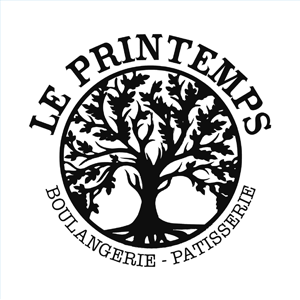
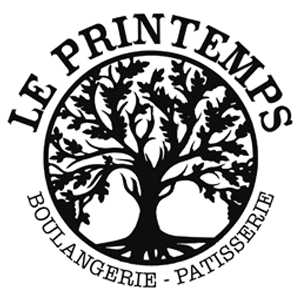
Index : partenaires - add le Printemps

diff --git a/index.html b/index.html
@@ -218,7 +218,7 @@
             <a href="https://m.facebook.com/profile.php?id=100085424663330&sk=photos#_=_" target="_blank">
               <img src="./img/ltcout.webp" alt="Logo de L'T' Cout', partenaire mécène du Twirling Club Macairois de Saint-Macaire-en-Mauges Sèvremoine" loading="lazy"></a>
               <a href="./html/adresses.html" target="_blank">
-                <img src="./img/boutique.webp" alt="Logo de la boutique partenaire du Twirling Club Macairois de Saint-Macaire-en-Mauges Sèvremoine" loading="lazy"></a>
+                <img src="./img/partenaire-printemps.png" alt="Logo de la boulangerie Le partenaire du Twirling Club Macairois de Saint-Macaire-en-Mauges Sèvremoine" loading="lazy"></a>
               </div>
               <div class="logos-slide">
           <a href="https://www.brangeon.fr/" target="_blank">
@@ -228,7 +228,7 @@
             <a href="https://m.facebook.com/profile.php?id=100085424663330&sk=photos#_=_" target="_blank">
               <img src="./img/ltcout.webp" alt="Logo de L'T' Cout', partenaire mécène du Twirling Club Macairois de Saint-Macaire-en-Mauges Sèvremoine" loading="lazy"></a>
               <a href="./html/adresses.html" target="_blank">
-                <img src="./img/boutique.webp" alt="Logo de la boutique partenaire du Twirling Club Macairois de Saint-Macaire-en-Mauges Sèvremoine" loading="lazy"></a>
+                <img src="./img/partenaire-printemps.png" alt="Logo de la boulangerie Le partenaire du Twirling Club Macairois de Saint-Macaire-en-Mauges Sèvremoine" loading="lazy"></a>
               </div>
               <div class="logos-slide">
           <a href="https://www.brangeon.fr/" target="_blank">
@@ -238,7 +238,7 @@
             <a href="https://m.facebook.com/profile.php?id=100085424663330&sk=photos#_=_" target="_blank">
               <img src="./img/ltcout.webp" alt="Logo de L'T' Cout', partenaire mécène du Twirling Club Macairois de Saint-Macaire-en-Mauges Sèvremoine" loading="lazy"></a>
               <a href="./html/adresses.html" target="_blank">
-                <img src="./img/boutique.webp" alt="Logo de la boutique partenaire du Twirling Club Macairois de Saint-Macaire-en-Mauges Sèvremoine" loading="lazy"></a>
+                <img src="./img/partenaire-printemps.png" alt="Logo de la boulangerie Le partenaire du Twirling Club Macairois de Saint-Macaire-en-Mauges Sèvremoine" loading="lazy"></a>
               </div>
               <div class="logos-slide">
           <a href="https://www.brangeon.fr/" target="_blank">
@@ -247,10 +247,10 @@
             <img src="./img/partenaire-intermarche.webp" alt="Logo d'Intermarché, partenaire mécène du Twirling Club Macairois de Saint-Macaire-en-Mauges Sèvremoine" loading="lazy"></a>
           <a href="https://m.facebook.com/profile.php?id=100085424663330&sk=photos#_=_" target="_blank">
             <img src="./img/ltcout.webp" alt="Logo de L'T' Cout', partenaire mécène du Twirling Club Macairois de Saint-Macaire-en-Mauges Sèvremoine" loading="lazy"></a>
-          <a href="./html/adresses.html" target="_blank">
-            <img src="./img/boutique.webp" alt="Logo de la boutique partenaire du Twirling Club Macairois de Saint-Macaire-en-Mauges Sèvremoine" loading="lazy"></a>
-        </div>
-      </div>
+            <a href="./html/adresses.html" target="_blank">
+              <img src="./img/partenaire-printemps.png" alt="Logo de la boulangerie Le partenaire du Twirling Club Macairois de Saint-Macaire-en-Mauges Sèvremoine" loading="lazy"></a>
+            </div>
+    </div>
   </section>
 
   <!-- Zone du footer -->
